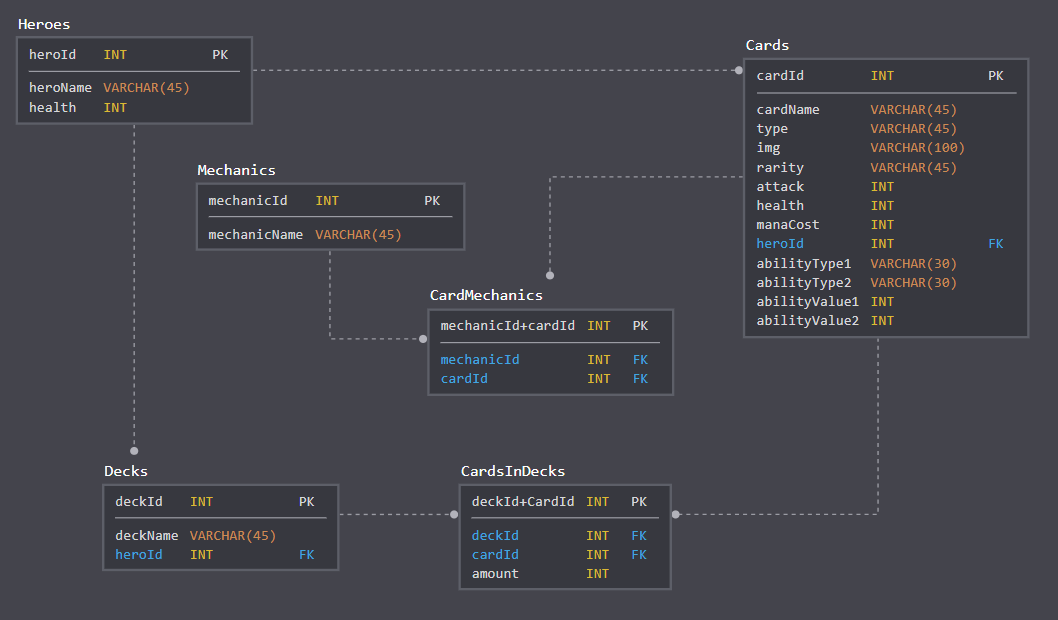
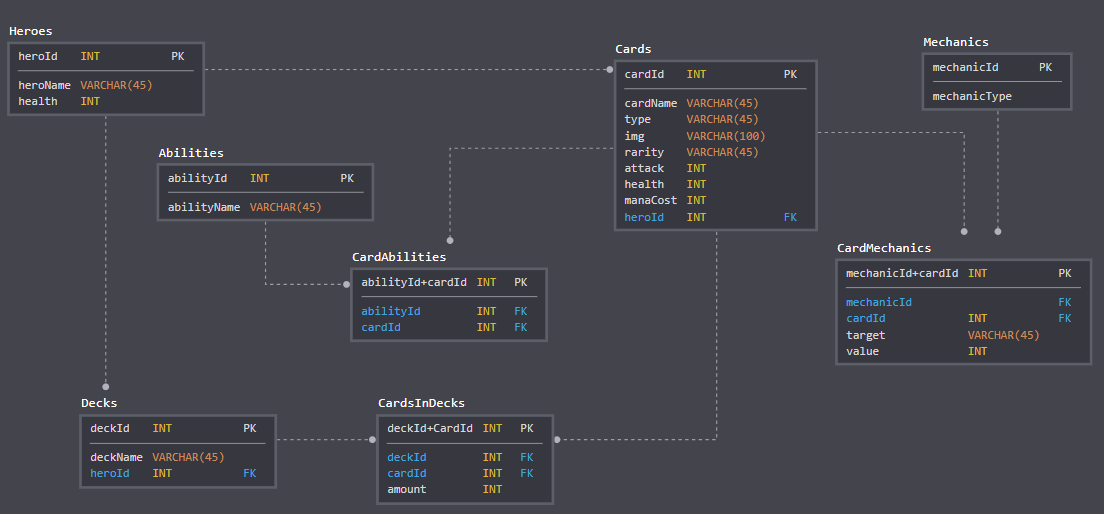
Updated version of database model

diff --git a/documents/Database/filler/assets/php/loadEverything.php b/documents/Database/filler/assets/php/loadEverything.php
@@ -22,28 +22,33 @@ foreach($heroNames as $heroName) {
     $stmt->execute();
 }
 
-/*foreach($mechanicNames as $mechanicName) {
+/*
+foreach($mechanicNames as $mechanicName) {
     $stmt = $db->prepare("insert into mechanics (mechanicName) values (:name)");
     $stmt->bindParam(":name", $mechanicName);
     $stmt->execute();
 }
 */
 
-/*
 $jsondata = file_get_contents('minions.json');
 $data =json_decode($jsondata, true);
 
-$stmt = $db->prepare("insert into cards (cardName, cardType, img, rarity, attack, health, manaCost, heroId) values (?,?,?,?,?,?,?,?,?)");
+$stmt = $db->prepare("insert into cards (cardName, cardType, img, rarity, attack, health, manaCost, heroId, race, abilityType1, abilityType2, abilityValue1, abilityValue2) values (?,?,?,?,?,?,?,?,?,?,?,?,?)");
 
 foreach ($data as $row) {
-    $stmt->bindParam(1, $row['cardName']);
-    $stmt->bindParam(2, $row['cardType']);
+    $stmt->bindParam(1, $row['name']);
+    $stmt->bindParam(2, $row['type']);
     $stmt->bindParam(3, $row['img']);
     $stmt->bindParam(4, $row['rarity']);
     $stmt->bindParam(5, $row['health']);
-    $stmt->bindParam(6, $row['damage']);
-    $stmt->bindParam(7, $row['manaCost']);
+    $stmt->bindParam(6, $row['attack']);
+    $stmt->bindParam(7, $row['cost']);
+
     $stmt->bindParam(8, $row['heroId']);
     $stmt->bindParam(9, $row['race']);
+    $stmt->bindParam(10, $row['race']);
+    $stmt->bindParam(11, $row['race']);
+    $stmt->bindParam(12, $row['race']);
+    $stmt->bindParam(13, $row['race']);
 }
 
